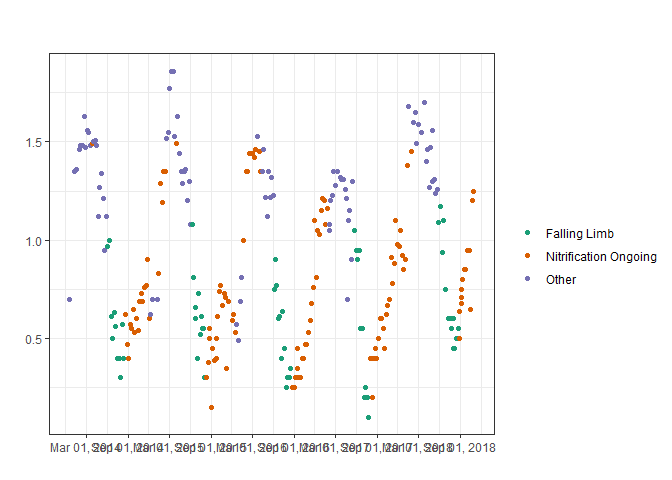
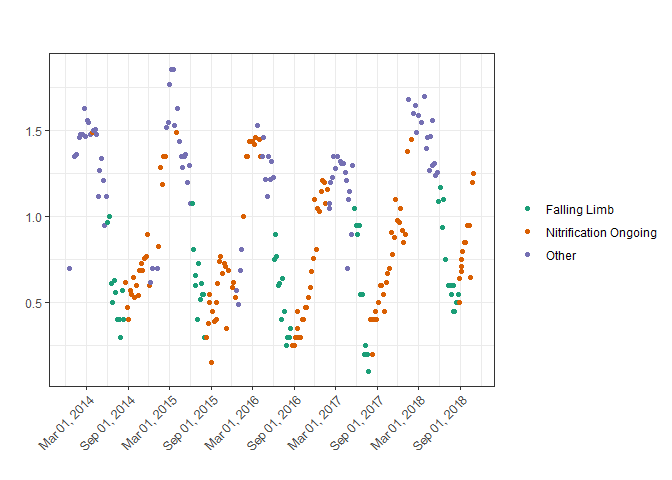
updated readme

diff --git a/README.md b/README.md
@@ -108,11 +108,10 @@ By default, this argument is set to 8. To know how to best set
 the `plot_fl` function.
 
 ``` r
-p <- nitrification %>% 
+nitrification %>% 
   filter(site == "Site 1") %>% 
-  plot_fl(date_col = date, value_col = chlorine, rolling_window = 7) 
-
-p 
+  plot_fl(date_col = date, value_col = chlorine, rolling_window = 7) + 
+  theme(axis.text.x = element_text(angle = 45, hjust = 1, vjust = 1))
 ```
 
 ![](man/figures/README-plot-fl-7-1.png)<!-- -->
@@ -123,7 +122,8 @@ changed
 ``` r
 nitrification %>% 
   filter(site == "Site 1") %>% 
-  plot_fl(date_col = date, value_col = chlorine, rolling_window = 12) 
+  plot_fl(date_col = date, value_col = chlorine, rolling_window = 12)  + 
+  theme(axis.text.x = element_text(angle = 45, hjust = 1, vjust = 1))
 ```
 
 ![](man/figures/README-plot-fl-12-1.png)<!-- -->
